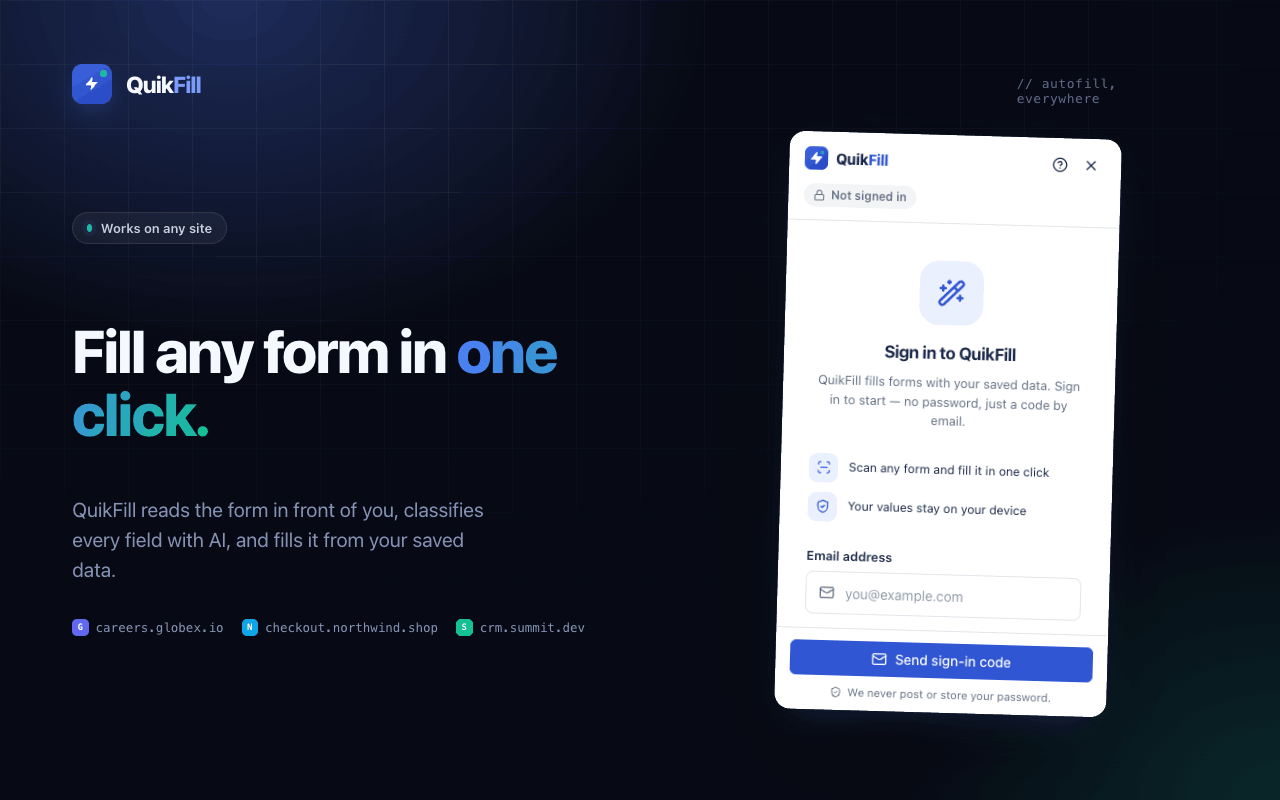
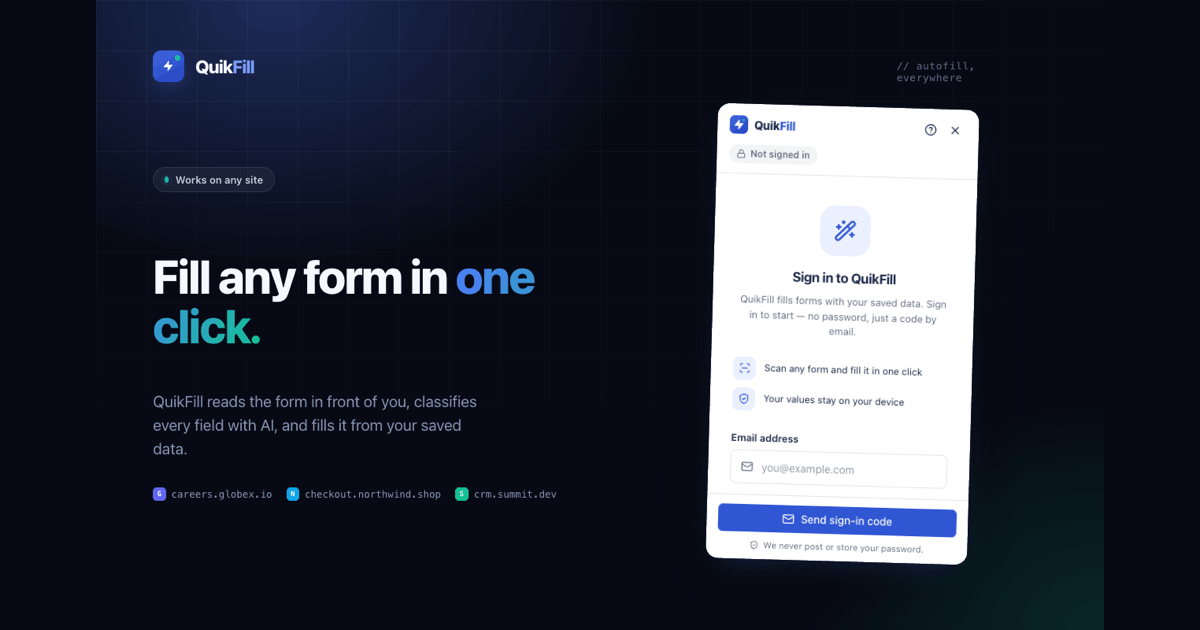
fix(web): use absolute OG image URL and complete social meta
Slack/WhatsApp/Facebook/LinkedIn don't resolve a relative og:image, so the
social card image never showed. Make og:image/og:url absolute, add og:url,
og:site_name, og:image:type/width/height/alt, explicit twitter:* tags, and a
canonical link. Also resize quikfill-og.png to the standard 1200x630 (~200KB,
was 3MB/1280x800 — over WhatsApp's preview size limit and wrong aspect ratio).

diff --git a/apps/website/nuxt.config.ts b/apps/website/nuxt.config.ts
@@ -1,7 +1,13 @@
 import tailwindcss from '@tailwindcss/vite'
 
+const title = 'QuikFill — Fill any form in one click'
 const description =
   'QuikFill adds a Fill button to any form on any site. One click and its AI detects every field and fills the whole form from your data. Built for people who live in forms.'
+
+// Production canonical origin. og:image / og:url MUST be absolute — Slack,
+// WhatsApp, Facebook and LinkedIn do not resolve relative social-card URLs.
+const siteUrl = 'https://quikfill.io'
+const ogImage = `${siteUrl}/quikfill-og.png`
 
 export default defineNuxtConfig({
   compatibilityDate: '2026-01-01',
@@ -28,19 +34,31 @@ export default defineNuxtConfig({
   app: {
     head: {
       htmlAttrs: { lang: 'en', 'data-theme': 'dark', 'data-hero': 'a' },
-      title: 'QuikFill — Fill any form in one click',
+      title,
       meta: [
         { charset: 'utf-8' },
         { name: 'viewport', content: 'width=device-width, initial-scale=1' },
         { name: 'description', content: description },
-        { property: 'og:title', content: 'QuikFill — Fill any form in one click' },
+        // Open Graph (Slack, WhatsApp, Facebook, LinkedIn). URLs are absolute.
+        { property: 'og:title', content: title },
         { property: 'og:description', content: description },
         { property: 'og:type', content: 'website' },
-        { property: 'og:image', content: '/quikfill-og.png' },
+        { property: 'og:url', content: siteUrl },
+        { property: 'og:site_name', content: 'QuikFill' },
+        { property: 'og:image', content: ogImage },
+        { property: 'og:image:type', content: 'image/png' },
+        { property: 'og:image:width', content: '1200' },
+        { property: 'og:image:height', content: '630' },
+        { property: 'og:image:alt', content: 'QuikFill — fill any form in one click' },
+        // Twitter / X
         { name: 'twitter:card', content: 'summary_large_image' },
+        { name: 'twitter:title', content: title },
+        { name: 'twitter:description', content: description },
+        { name: 'twitter:image', content: ogImage },
         { name: 'theme-color', content: '#070a14' },
       ],
       link: [
+        { rel: 'canonical', href: siteUrl },
         { rel: 'icon', type: 'image/svg+xml', href: '/quikfill-icon.svg' },
         { rel: 'preconnect', href: 'https://fonts.googleapis.com' },
         { rel: 'preconnect', href: 'https://fonts.gstatic.com', crossorigin: '' },